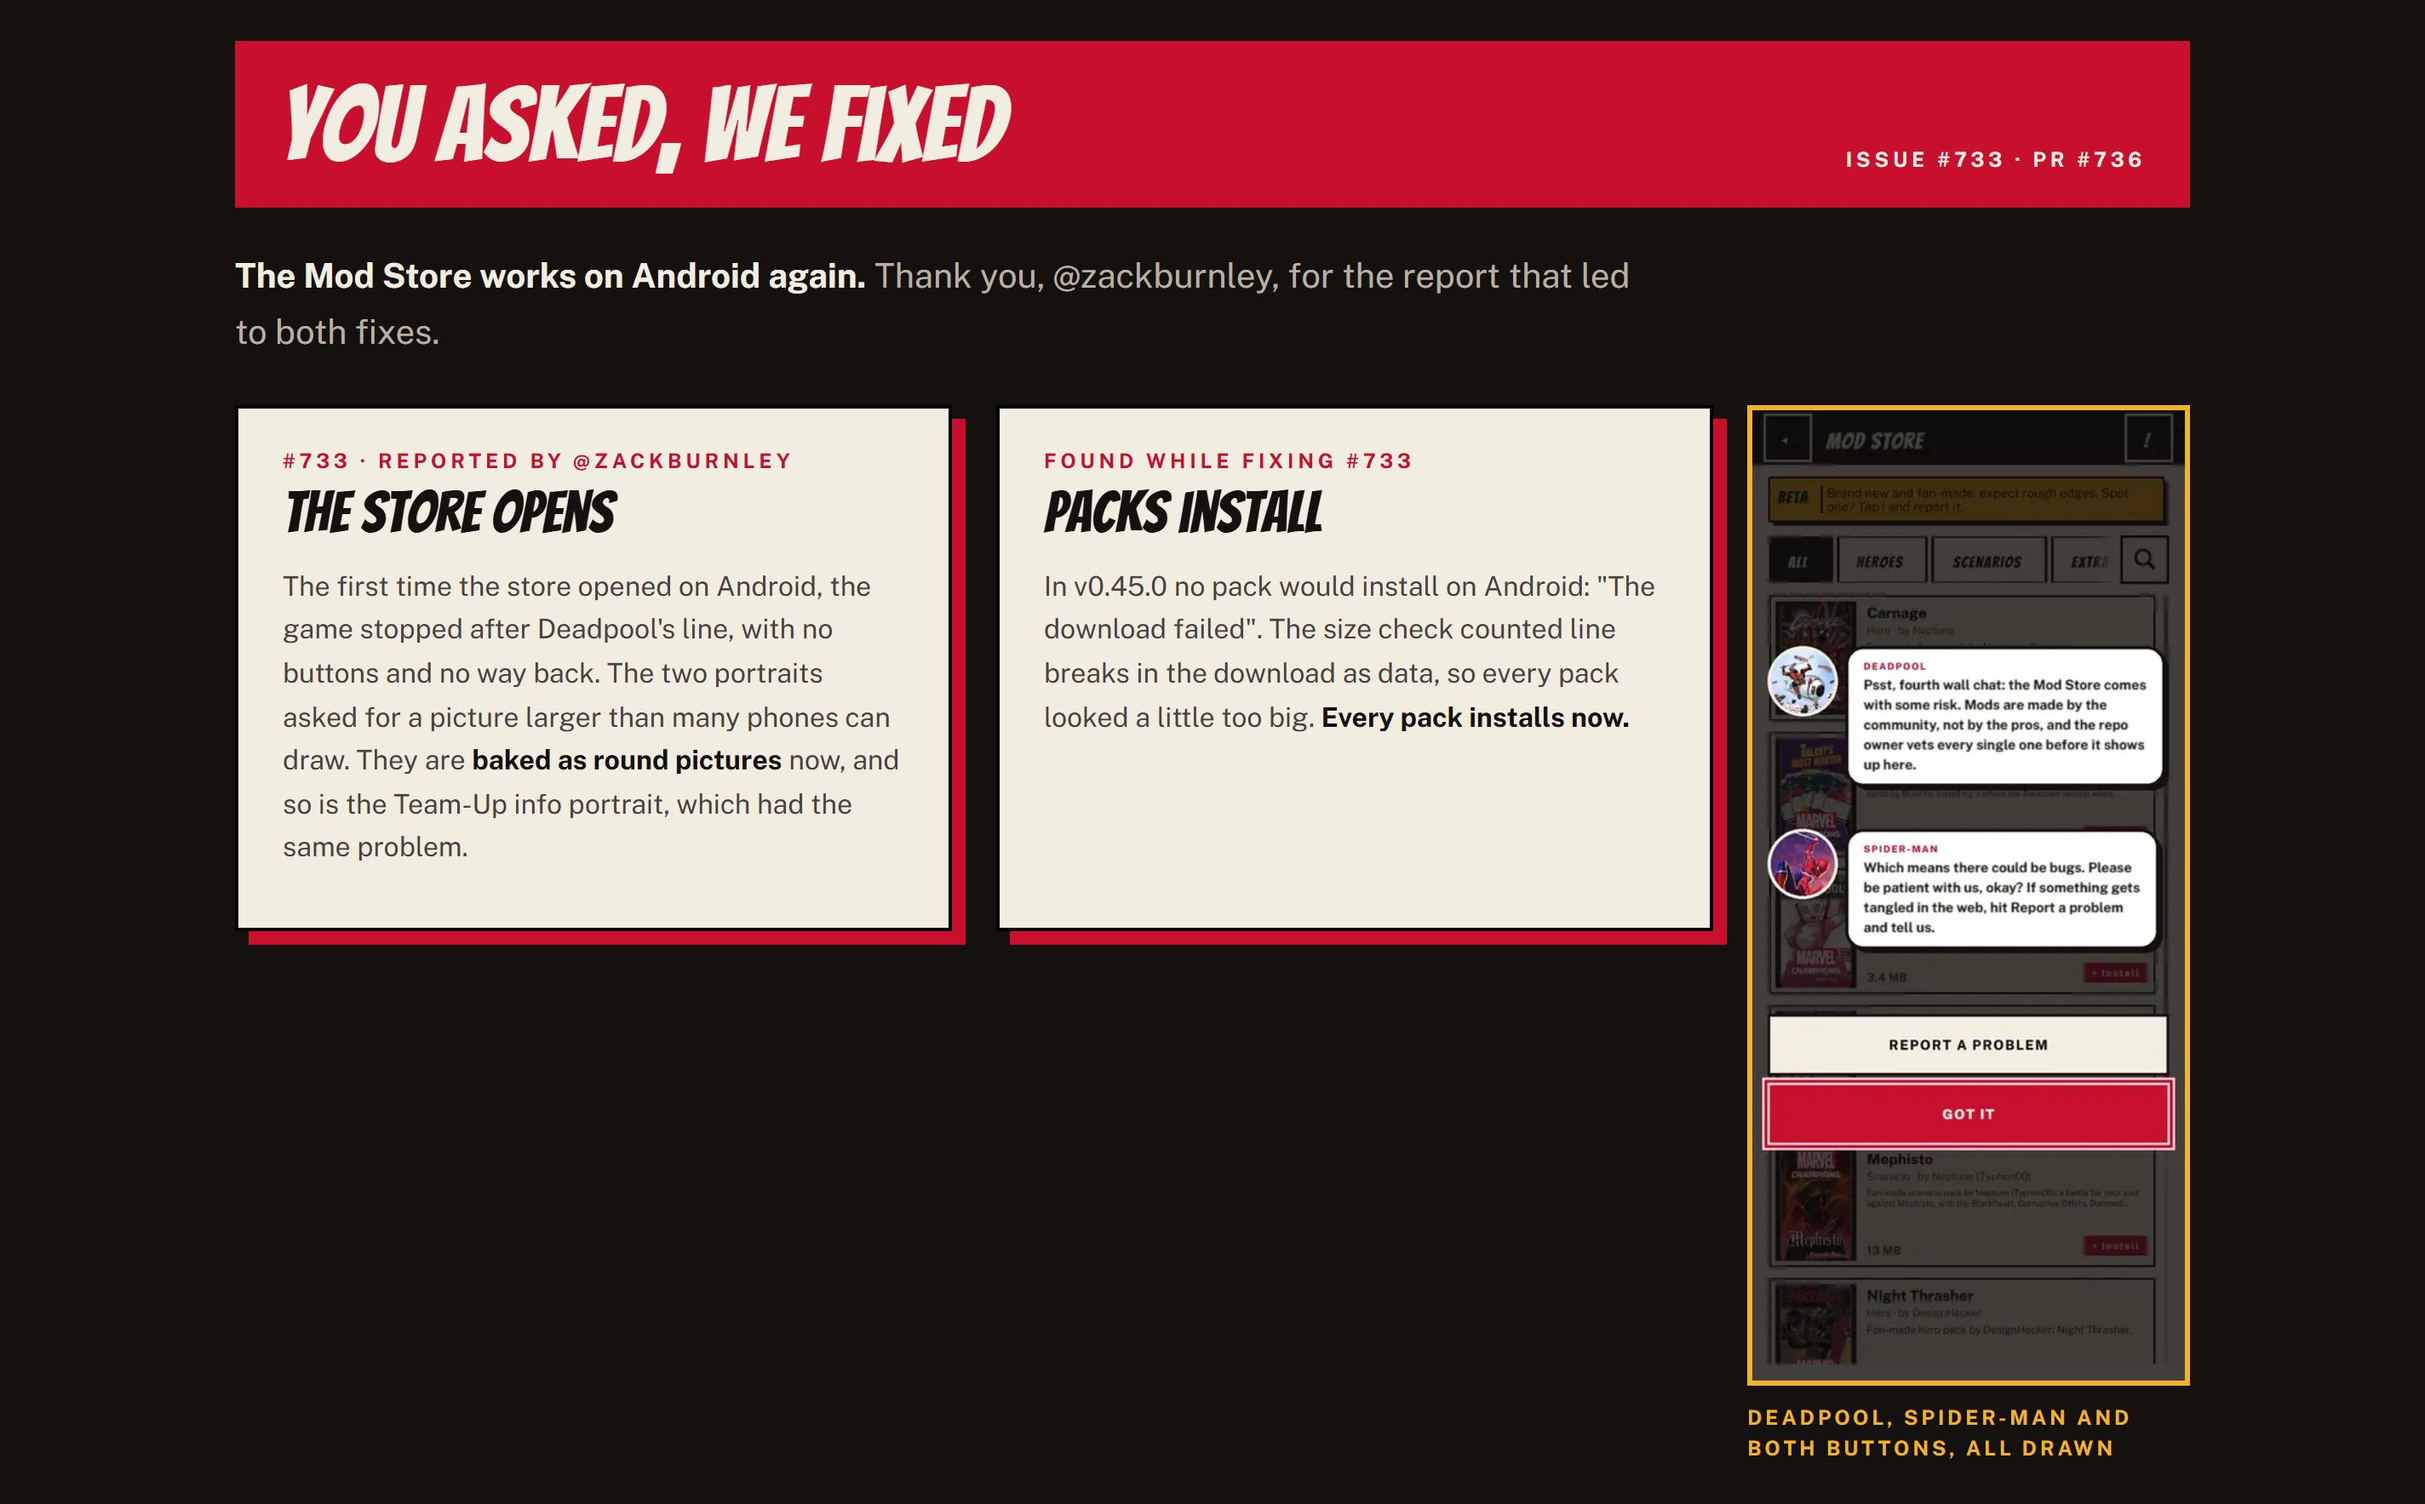
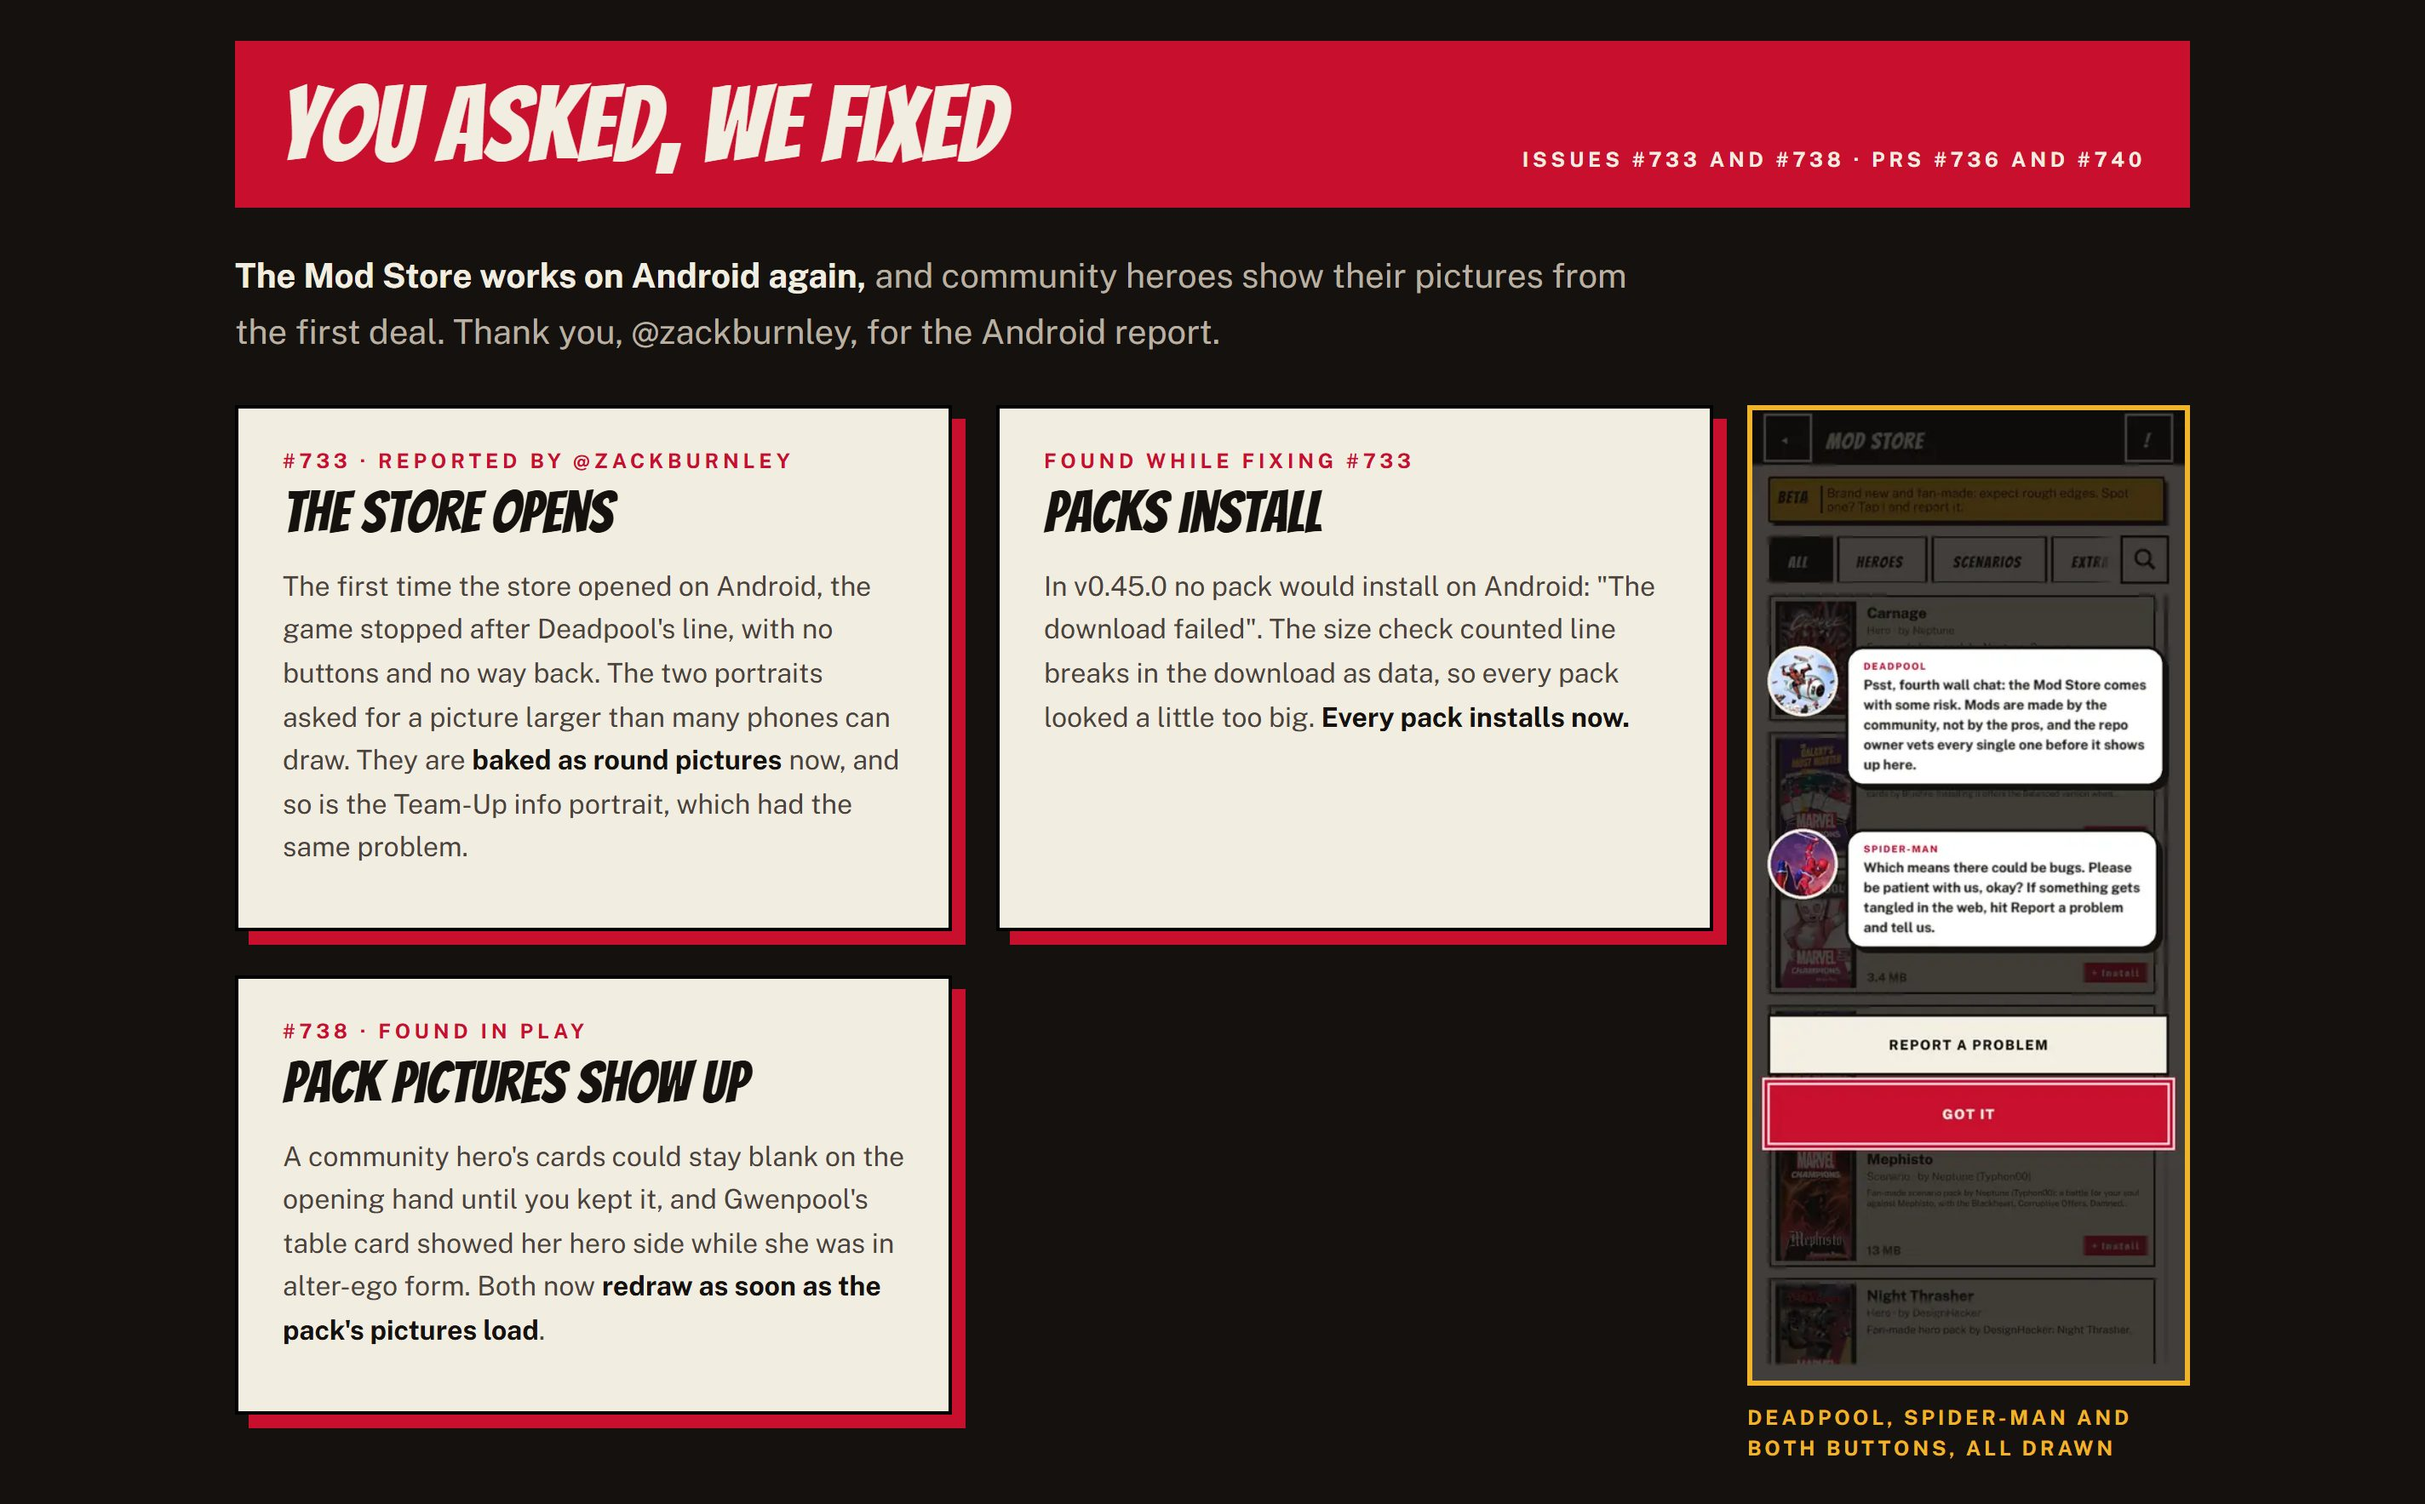
Add the #738 pack picture fix to the v0.46.0 report and recount

Changed region(s): [[0.0938, 0.6537, 0.4062, 0.9649], [0.0938, 0.1556, 0.6562, 0.249], [0.625, 0.0934, 0.875, 0.1245]]

diff --git a/packages/client/public/releases/v0.46.0/index.html b/packages/client/public/releases/v0.46.0/index.html
@@ -781,10 +781,11 @@
       <!-- ============ YOU ASKED ============ -->
       <div class="band">
         <h2>You asked, we fixed</h2>
-        <div class="lab">Issue #733 · PR #736</div>
+        <div class="lab">Issues #733 and #738 · PRs #736 and #740</div>
       </div>
       <p class="lead">
-        <b>The Mod Store works on Android again.</b> Thank you, @zackburnley, for the report that led to both fixes.
+        <b>The Mod Store works on Android again,</b> and community heroes show their pictures from the first deal. Thank
+        you, @zackburnley, for the Android report.
       </p>
       <div class="shots s-phone">
         <div class="cards">
@@ -803,6 +804,15 @@
             <p>
               In v0.45.0 no pack would install on Android: "The download failed". The size check counted line breaks in
               the download as data, so every pack looked a little too big. <b>Every pack installs now.</b>
+            </p>
+          </div>
+          <div class="paper">
+            <div class="eb">#738 · found in play</div>
+            <h3>Pack pictures show up</h3>
+            <p>
+              A community hero's cards could stay blank on the opening hand until you kept it, and Gwenpool's table card
+              showed her hero side while she was in alter-ego form. Both now
+              <b>redraw as soon as the pack's pictures load</b>.
             </p>
           </div>
         </div>
@@ -875,22 +885,22 @@
       <section class="stats" aria-label="Code shipped since v0.45.0">
         <div class="tile">
           <h4>Pull requests</h4>
-          <div class="n">6</div>
+          <div class="n">7</div>
           <p>merged into main.</p>
         </div>
         <div class="tile">
           <h4>Files changed</h4>
-          <div class="n">329</div>
+          <div class="n">333</div>
           <p>across the client, the mod SDK, the content schema and this report.</p>
         </div>
         <div class="tile">
           <h4>Lines added</h4>
-          <div class="n c-green">3,566</div>
+          <div class="n c-green">3,628</div>
           <p>the store's search, tabs and settings, and their tests.</p>
         </div>
         <div class="tile">
           <h4>Lines removed</h4>
-          <div class="n c-red">13,261</div>
+          <div class="n c-red">13,268</div>
           <p>most of them the community packs leaving the game's repository.</p>
         </div>
       </section>

diff --git a/docs/releases/es/v0.46.0.md b/docs/releases/es/v0.46.0.md
@@ -1,6 +1,6 @@
 ## Los mods, en primera fila
 
-La Mod Store pasa al menú principal, con todo lo que pidió @bluefireF5ran después de probarla (#734): un botón de tienda en la pantalla de inicio, las pestañas Extras y Credits, un buscador con etiquetas y un orden, y ajustes que ponen los mods junto a los héroes y escenarios oficiales y eligen si empiezan desbloqueados. Los creadores tienen tres campos opcionales nuevos en pack.json, tags, wave y unlock, y los packs de la tienda ahora se publican desde el registro de mods con sus ids y versiones intactos. En Android, la tienda vuelve a abrirse y los packs vuelven a instalarse, gracias al reporte de @zackburnley (#733). ¡Gracias!
+La Mod Store pasa al menú principal, con todo lo que pidió @bluefireF5ran después de probarla (#734): un botón de tienda en la pantalla de inicio, las pestañas Extras y Credits, un buscador con etiquetas y un orden, y ajustes que ponen los mods junto a los héroes y escenarios oficiales y eligen si empiezan desbloqueados. Los creadores tienen tres campos opcionales nuevos en pack.json, tags, wave y unlock, y los packs de la tienda ahora se publican desde el registro de mods con sus ids y versiones intactos. En Android, la tienda vuelve a abrirse y los packs vuelven a instalarse, gracias al reporte de @zackburnley (#733), y las cartas de un héroe de la comunidad muestran sus imágenes desde el primer reparto en lugar de quedarse en blanco en la mano inicial (#738). ¡Gracias!
 
 ![Los números: 5 notas de prueba de @bluefireF5ran, 6 pestañas en la tienda y 2 correcciones en Android](https://raw.githubusercontent.com/quincarter/marvel-champions-digital-game/5821107ac760911fc611627efb363bce3bea7da3/docs/screenshots/releases/v0.46.0/v0-46-0-release-01-the-numbers.jpg)
 
@@ -31,6 +31,7 @@ La Mod Store pasa al menú principal, con todo lo que pidió @bluefireF5ran desp
 
 - La Mod Store ya no se bloquea en teléfonos Android la primera vez que se abre: los retratos redondos de Deadpool y Spider-Man del aviso se preparan como discos en lugar de dibujarse con una máscara circular, que hacía que el juego dejara de dibujar tras la frase de Deadpool (#733). Los retratos de la información de Team-Up reciben la misma corrección.
 - Las instalaciones de la Mod Store vuelven a funcionar en Android: la comprobación de tamaño de la descarga contaba los saltos de línea del cuerpo en base64 de Android como datos, así que cada pack parecía un 1% más grande que su tamaño en el catálogo y se rechazaba.
+- Las cartas de un héroe de la comunidad en la pantalla de manos iniciales muestran sus imágenes en cuanto cargan, en lugar de quedarse en blanco hasta aceptar la mano, y el álter ego de un héroe de la comunidad muestra su propia imagen en la mesa en lugar de la del lado de héroe (#738).
 - La prueba e2e de PageDown en Take your seats vuelve a pulsar RB cuando la primera pulsación cae en los fotogramas que descarta la protección del mando, en lugar de fallar con la suite cargada.
 
 ### Content

diff --git a/docs/screenshots/releases/v0.46.0/release-notes-header.md b/docs/screenshots/releases/v0.46.0/release-notes-header.md
@@ -1,8 +1,8 @@
 ## Mods, Front and Center
 
-The Mod Store moves onto the main menu, with everything @bluefireF5ran asked for after playing it (#734): a storefront button on the title screen, Extras and Credits tabs, a search box with tag chips and a sort, and settings that put mods beside the official heroes and scenarios and choose whether they start unlocked. Creators get three new optional pack.json fields, tags, wave and unlock, and the store's packs now publish from the mods registry with their ids and versions intact. On Android, the store opens again and packs install again, after @zackburnley's report (#733). Thank you!
+The Mod Store moves onto the main menu, with everything @bluefireF5ran asked for after playing it (#734): a storefront button on the title screen, Extras and Credits tabs, a search box with tag chips and a sort, and settings that put mods beside the official heroes and scenarios and choose whether they start unlocked. Creators get three new optional pack.json fields, tags, wave and unlock, and the store's packs now publish from the mods registry with their ids and versions intact. On Android, the store opens again and packs install again, after @zackburnley's report (#733), and a community hero's cards show their pictures from the first deal instead of staying blank on the opening hand (#738). Thank you!
 
-**[Read the full v0.46.0 report on the site ↗](https://champions-digital-game.com/releases/v0.46.0/)**: the Mod Store on the main menu, search, tags and Credits, the custom content settings, the Android fixes and the thank-you wall.
+**[Read the full v0.46.0 report on the site ↗](https://champions-digital-game.com/releases/v0.46.0/)**: the Mod Store on the main menu, search, tags and Credits, the custom content settings, the Android and pack picture fixes and the thank-you wall.
 
 **[Lee el informe completo en español ↗](https://champions-digital-game.com/releases/v0.46.0/index.es.html)**
 

diff --git a/docs/screenshots/releases/v0.46.0/discord-post.md b/docs/screenshots/releases/v0.46.0/discord-post.md
@@ -8,6 +8,7 @@ The Mod Store moves onto the main menu, with everything bluefireF5ran asked for 
 ⚙ **Your way**: Settings ▸ More ▸ Custom content puts mods at the top, the bottom or mixed in beside the official heroes and scenarios, and chooses whether they start unlocked or unlock as you play.
 🛠 **Creators**: pack.json takes tags, wave and unlock, and the store's packs now publish from the mods registry.
 🤖 **Android**: the store no longer locks up after Deadpool's line, and packs install again.
+🖼 **Pack pictures**: a community hero's cards show on the opening hand right away, and Gwenpool's table card shows her alter-ego side when it should.
 
 Full report: https://champions-digital-game.com/releases/v0.46.0/
 Downloads: https://github.com/quincarter/marvel-champions-digital-game/releases/tag/v0.46.0
@@ -26,6 +27,7 @@ La Mod Store pasa al menú principal, con todo lo que pidió bluefireF5ran despu
 ⚙ **A tu manera**: Settings ▸ More ▸ Custom content pone los mods arriba, abajo o mezclados junto a los héroes y escenarios oficiales, y elige si empiezan desbloqueados o se desbloquean al jugar.
 🛠 **Creadores**: pack.json admite tags, wave y unlock, y los packs de la tienda ahora se publican desde el registro de mods.
 🤖 **Android**: la tienda ya no se bloquea tras la frase de Deadpool, y los packs vuelven a instalarse.
+🖼 **Imágenes de los packs**: las cartas de un héroe de la comunidad se ven enseguida en la mano inicial, y el álter ego de Gwenpool muestra su propia imagen en la mesa.
 
 Informe completo: https://champions-digital-game.com/releases/v0.46.0/index.es.html
 Descargas: https://github.com/quincarter/marvel-champions-digital-game/releases/tag/v0.46.0
